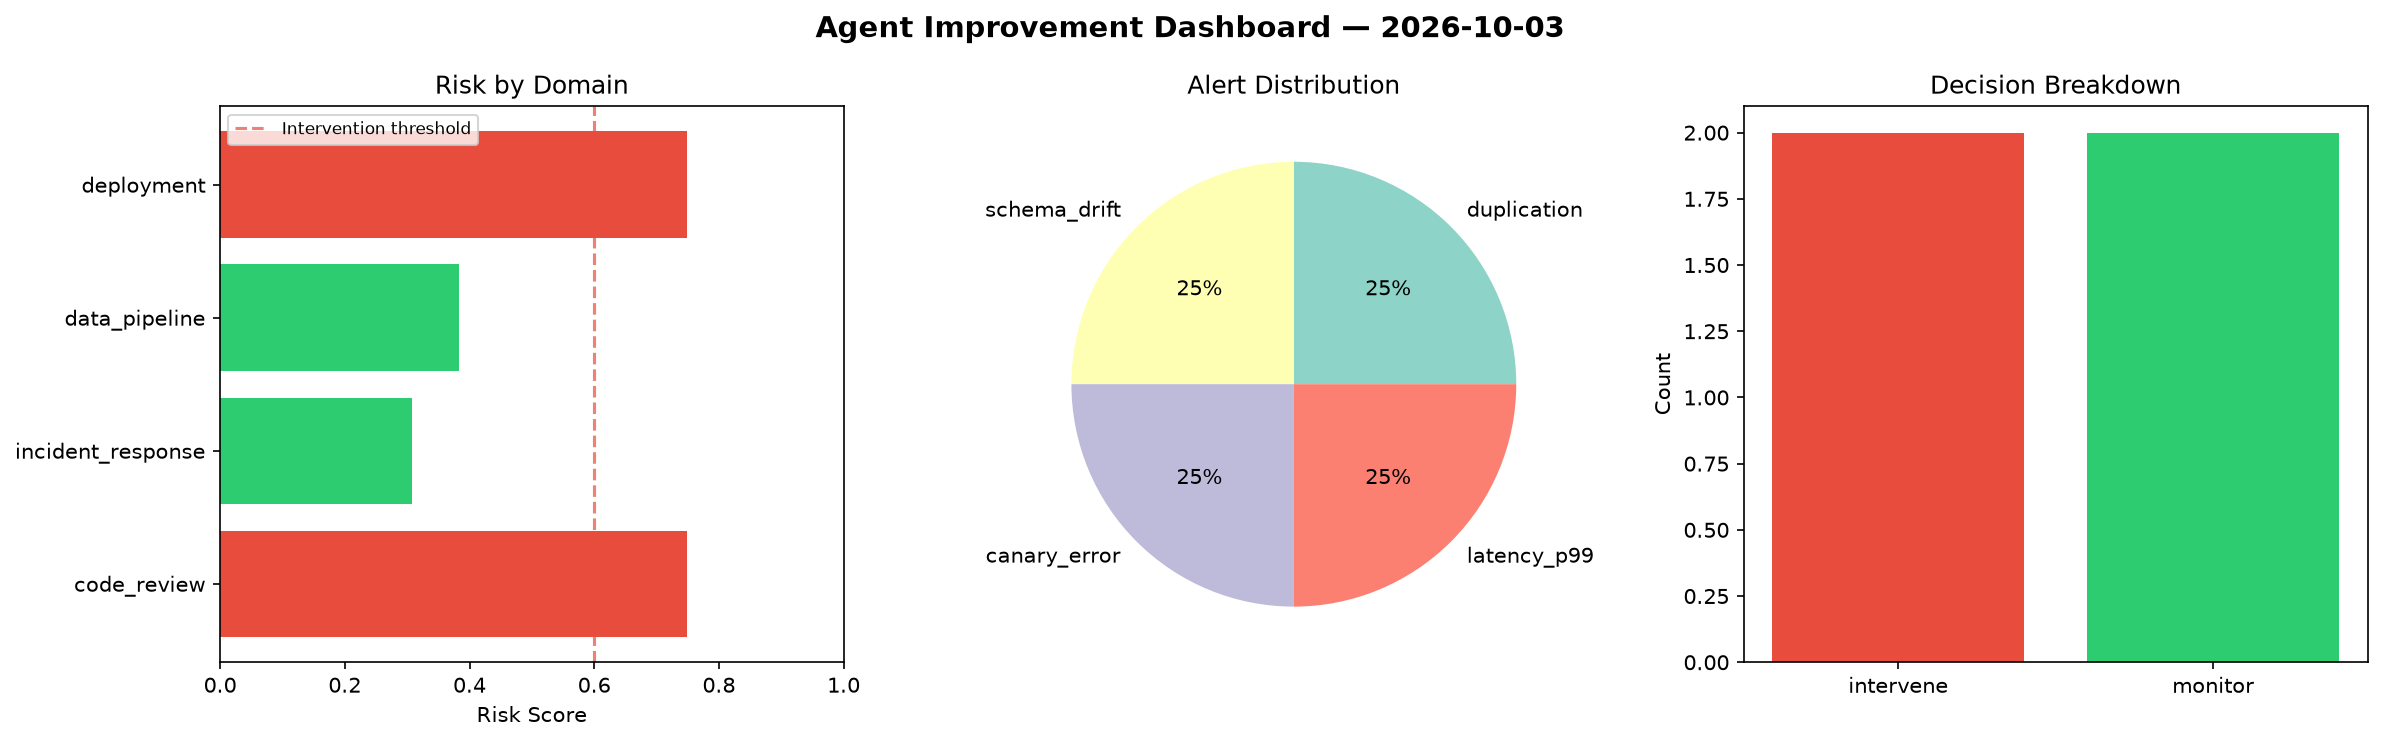
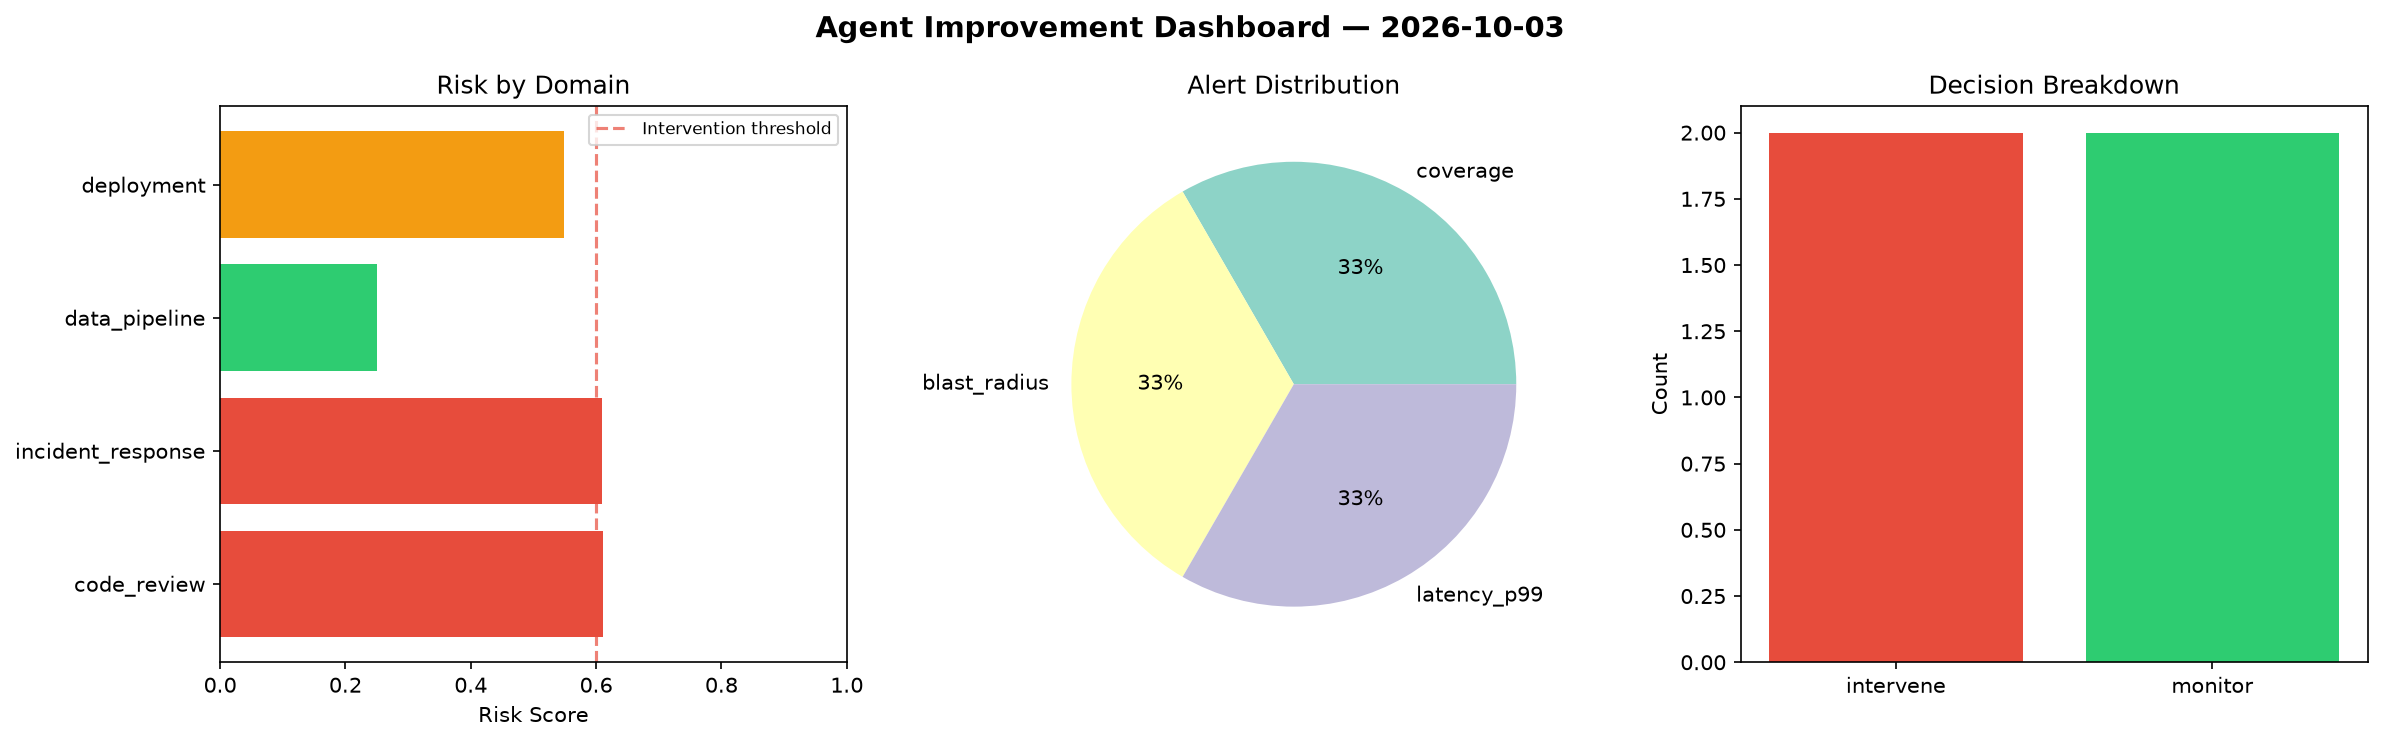
agent-improvement: daily cycle 2026-10-03T23:01

diff --git a/logs/2026-10-03.md b/logs/2026-10-03.md
@@ -1,6 +1,6 @@
 # Agent Improvement Report — 2026-10-03
 
-**Cycle ID:** `ff05feda` | **Avg Risk:** 0.5469 | **Interventions:** 2/4
+**Cycle ID:** `7dc0d96a` | **Avg Risk:** 0.5048 | **Interventions:** 2/4
 
 ![Dashboard](2026-10-03_dashboard.png)
 
@@ -10,18 +10,18 @@
 
 | Domain | Risk Score | Decision | Alerts |
 |--------|-----------|----------|--------|
-| code_review | 0.7482 | intervene | duplication |
-| incident_response | 0.3078 | monitor | none |
-| data_pipeline | 0.3827 | monitor | schema_drift |
-| deployment | 0.749 | intervene | canary_error, latency_p99 |
+| code_review | 0.6106 | intervene | coverage |
+| incident_response | 0.6095 | intervene | blast_radius |
+| data_pipeline | 0.2502 | monitor | none |
+| deployment | 0.5489 | monitor | latency_p99 |
 
 ## Delta vs Yesterday
 
 | Domain | Today | Yesterday | Change |
 |--------|-------|-----------|--------|
-| code_review | 0.7482 | 0.7279 | 📈 2.8% |
-| incident_response | 0.3078 | 0.5574 | 📉 -44.8% |
-| data_pipeline | 0.3827 | 0.6619 | 📉 -42.2% |
-| deployment | 0.749 | 0.3732 | 📈 100.7% |
+| code_review | 0.6106 | 0.7279 | 📉 -16.1% |
+| incident_response | 0.6095 | 0.5574 | 📈 9.3% |
+| data_pipeline | 0.2502 | 0.6619 | 📉 -62.2% |
+| deployment | 0.5489 | 0.3732 | 📈 47.1% |
 
-**Refinement:** `{'adjustment': 'tighten_thresholds', 'trend': 'degrading', 'window': 4}`
+**Refinement:** `{'adjustment': 'maintain', 'trend': 'improving', 'window': 4}`
